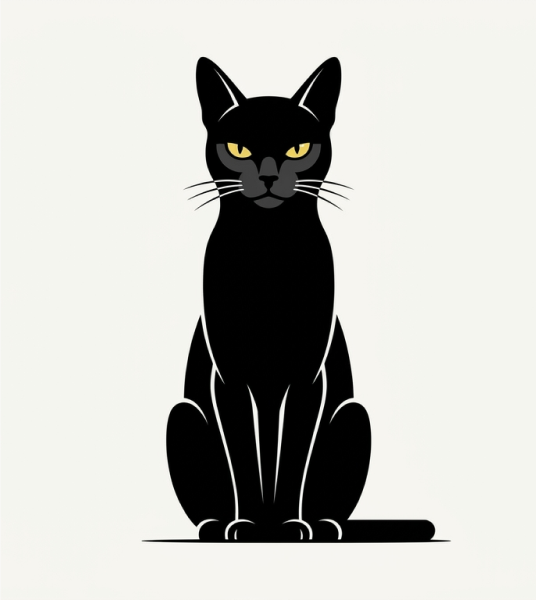
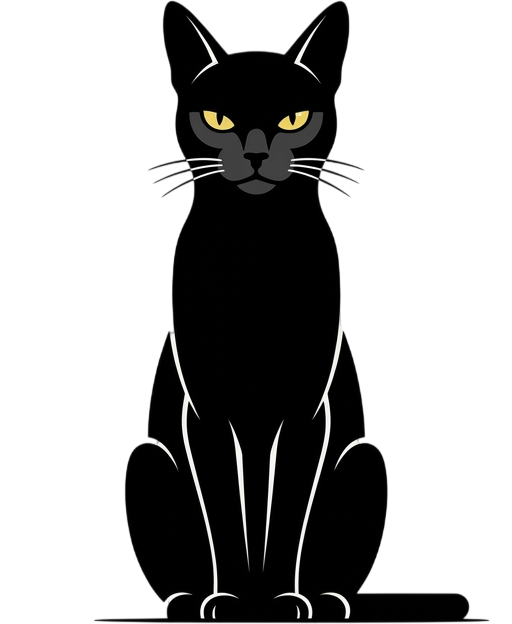
feat(about): About 페이지 리뉴얼 초안 — 히어로 섹션 교체 및 ZcatBanner 컴포넌트 추가

Changed region(s): [[0.1875, 0.0, 0.9688, 1.0]]

diff --git a/src/app/(public)/page.tsx b/src/app/(public)/page.tsx
@@ -1,9 +1,8 @@
 export const revalidate = 3600;
 
 import RecentPosts from "@/components/public/about/RecentPosts";
-import { Button } from "@/components/ui/button";
+import ZcatBanner from "@/components/public/about/ZcatBanner";
 import { ArchiveIcon, EyeIcon, UtensilsIcon } from "lucide-react";
-import Image from "next/image";
 
 export const ZCAT_FEATURES = [
   {
@@ -33,45 +32,30 @@ export default function Home() {
   return (
     <div className="flex w-full flex-col">
       <section className="bg-background w-full py-20">
-        <div className="mx-auto flex max-w-7xl items-center justify-between gap-6 px-6">
-          <div>
-            <h2 className="text-foreground text-5xl font-bold">
-              Welcome to <br />
-              {`my human's `}
-              <span className="text-primary">errors.</span>
-            </h2>
-
-            <blockquote className="border-primary mt-6 border-l-2 p-4 pl-6 italic">
-              {`"Hello, I'm Z-cat. Observing imperfect human code and`} <br />
-              {`pathetic bugs is my only form of entertainment."`}
-            </blockquote>
-            <div className="mt-8">
-              <Button>가기</Button>
-              <Button variant={"outline"}>돌아가기</Button>
-            </div>
+        <div className="mx-auto flex max-w-6xl items-end justify-between px-6">
+          <div className="font-heading text-6xl leading-14 font-bold text-zinc-900">
+            A developer’s
+            <br />
+            errors,
+            <br />
+            archived by
+            <br />
+            <span className="text-primary">a cat.</span>
           </div>
-          <div className="relative bg-black">
-            {/* 이미지  */}
-            <Image
-              src="/about-hero-zcat.png"
-              alt="Z-cat"
-              className="object-contain"
-              width={536}
-              height={600}
-              priority
-            />
-            {/* 오버레이 텍스트 — absolute로 우측 하단에 띄움 */}
-            <div className="absolute right-4 bottom-4 border border-white/20 bg-black/60 px-3 py-2 backdrop-blur-sm">
-              <p className="font-mono text-[10px] text-white/50">[STATUS]</p>
-              <p className="font-mono text-sm font-bold text-white">
-                OBSERVING
-              </p>
-            </div>
+          <div className="font-serif text-sm leading-6 font-normal text-zinc-500">
+            당신의 코드는 Z-cat의 감시 하에 있습니다.
+            <br />
+            모든 버그와 실수는 기록되며, 비웃음의 대상이 됩니다.
+            <p className="font-space text-xs leading-4 font-normal tracking-widest text-orange-700 uppercase">
+              [OBSERVATION_ACTIVE]
+            </p>
           </div>
         </div>
       </section>
+
+      <ZcatBanner />
       <section className="bg-muted w-full py-20">
-        <div className="mx-auto max-w-7xl px-6">
+        <div className="mx-auto max-w-6xl px-6">
           <h2>WHY THIS BLOG?</h2>
           <p className="text-muted-foreground mt-3 text-sm leading-relaxed">
             반가워, 난 서버 랙에 살면서 코드를 지켜보는 고양이 제트캣이야.

diff --git a/src/components/public/about/ZcatBanner.tsx b/src/components/public/about/ZcatBanner.tsx
@@ -1,0 +1,62 @@
+"use client";
+
+import { useRef } from "react";
+import { easeInOut, motion, useScroll, useTransform } from "framer-motion";
+import Image from "next/image";
+import Link from "next/link";
+
+export default function ZcatBanner() {
+  const ref = useRef(null);
+
+  const { scrollYProgress } = useScroll({
+    target: ref,
+    offset: ["start center", "center center"],
+  });
+
+  const width = useTransform(scrollYProgress, [0, 1], ["70%", "100%"], {
+    ease: easeInOut,
+  });
+
+  const borderRadius = useTransform(scrollYProgress, [0, 1], ["24px", "0px"], {
+    ease: easeInOut,
+  });
+
+  return (
+    <div
+      ref={ref}
+      className="relative flex w-full justify-center overflow-hidden"
+    >
+      <motion.section
+        style={{ width, borderRadius }}
+        className="bg-primary flex flex-col items-center justify-center overflow-hidden py-8"
+      >
+        <p className="font-space text-primary-foreground/60 text-xs tracking-widest uppercase">
+          [ Z-CAT ]
+        </p>
+
+        <Image
+          src="/about-hero-zcat.png"
+          alt="Z-cat"
+          width={512}
+          height={624}
+          className="my-8 h-auto w-lg object-contain"
+          priority
+        />
+        <div className="flex gap-4">
+          <Link
+            href="/diary"
+            className="bg-primary-foreground text-primary font-space rounded px-6 py-2.5 text-xs font-semibold tracking-widest uppercase transition-opacity hover:opacity-90"
+          >
+            ARCHIVES
+          </Link>
+          <Link
+            href="/contact"
+            className="border-primary-foreground/40 text-primary-foreground font-space rounded border px-6 py-2.5 text-xs font-semibold tracking-widest uppercase transition-colors hover:bg-white/10"
+          >
+            CONNECT
+          </Link>
+        </div>
+      </motion.section>
+    </div>
+  );
+}

diff --git a/src/components/public/about/RecentPosts.tsx b/src/components/public/about/RecentPosts.tsx
@@ -7,7 +7,7 @@ export default async function RecentPosts() {
   const posts = await getRecentPosts();
   return (
     <section className="bg-background w-full py-20">
-      <div className="mx-auto max-w-7xl px-6">
+      <div className="mx-auto max-w-6xl px-6">
         <div className="flex justify-between">
           <h2>LAST DIARIES</h2>
           <Button variant={"link"} asChild>
